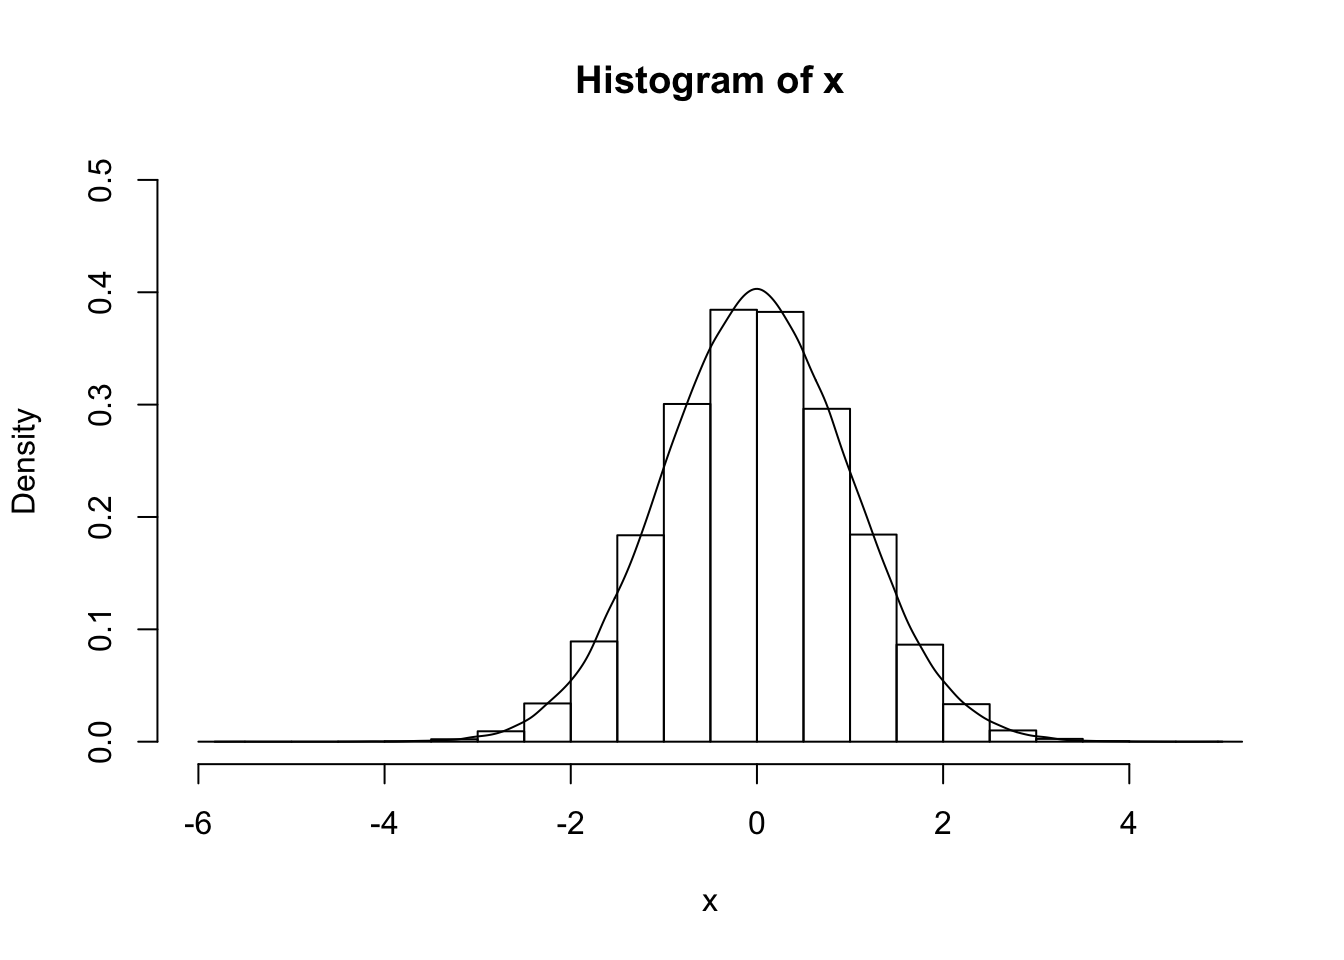
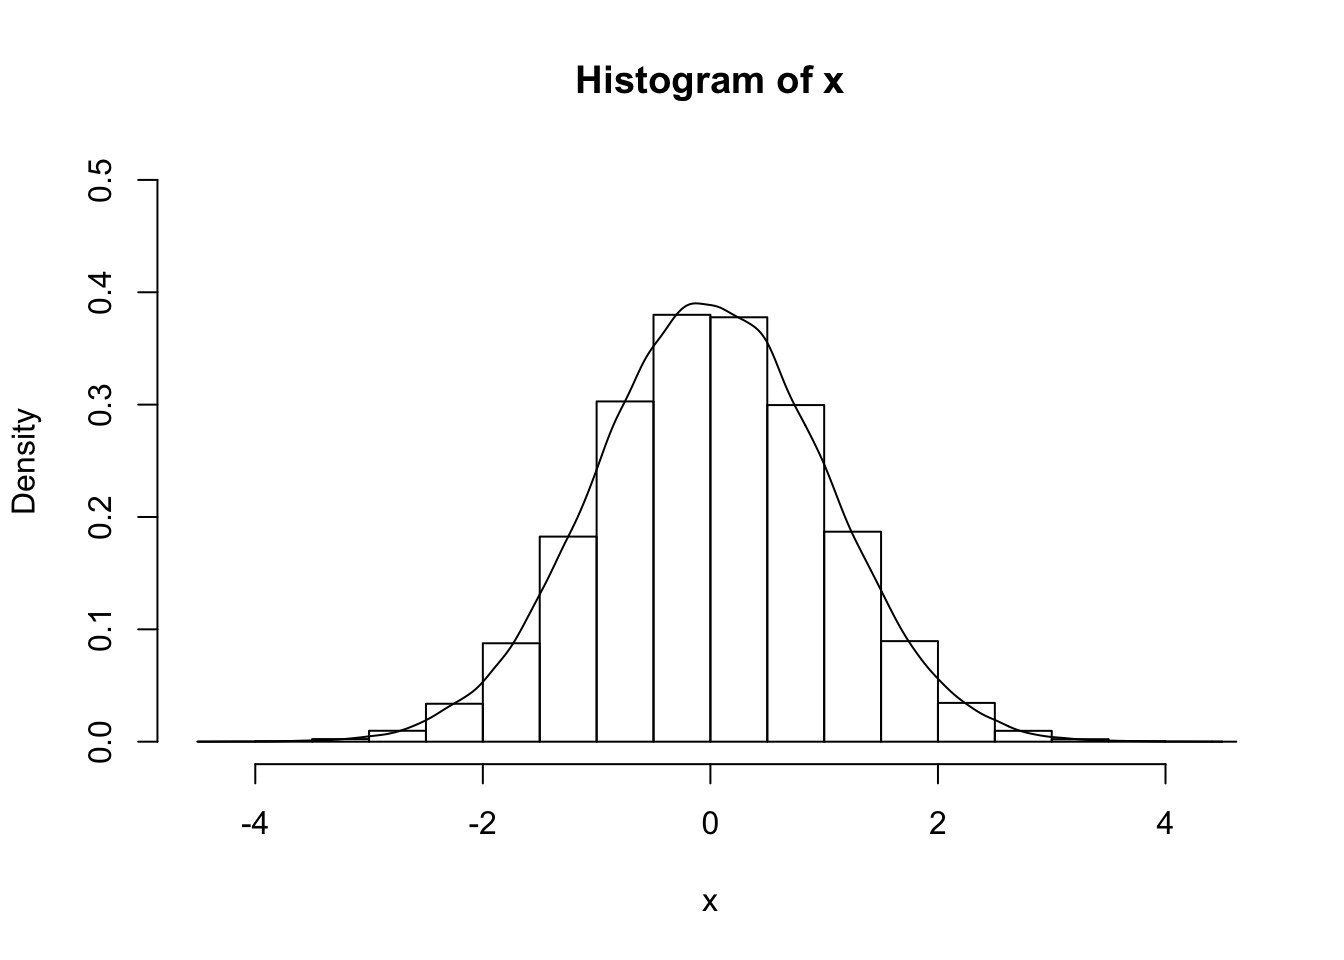
if lubridate not installed

diff --git a/Tutorial2.html b/Tutorial2.html
@@ -310,7 +310,7 @@ dev.off()</code></pre>
 <p>(attach the corresponding plots to the email)</p>
 <ol style="list-style-type: decimal">
 <li><p>Use the dataset <code>airquality</code>. Draw a scattar to show the relationship between variables <code>Ozone</code> and <code>Solar.R</code>. Show the points with <code>Wind</code> values greater than 9.7 in red, otherwise in black.</p></li>
-<li><p>Make plot to monitor the convergence of the exponential function (<span class="math inline">\(e^x \ = \sum_{n=0}^{\infty} \frac{x^{n}}{n!}\)</span>) with <span class="math inline">\(x = 5\)</span>.</p></li>
+<li><p>(!!! Only for practice, feel free to skip) Make plot to monitor the convergence of the exponential function (<span class="math inline">\(e^x \ = \sum_{n=0}^{\infty} \frac{x^{n}}{n!}\)</span>) with <span class="math inline">\(x = 5\)</span>.</p></li>
 </ol>
 <pre class="r"><code>taylor_appox&lt;- function(x){
   function(N){
@@ -324,7 +324,7 @@ taylor_appox_N&lt;- taylor_appox(x)
 N_vec&lt;- 1:20
 approx_val&lt;- sapply(N_vec, function(N){
   # TODO
-}} 
+})
 plot(N_vec, approx_val)</code></pre>
 <ol start="3" style="list-style-type: decimal">
 <li><p>Use the dataset <code>sleep</code>. Put a histogram and a boxplot in one plot to show the overall pattern of the increased sleeping time (variable <code>extra</code>).</p></li>
@@ -413,8 +413,8 @@ qnorm(.975, 0, 1)
 pnorm(1.96, 0, 1)
 #&gt; [1] 0.9750021
 rnorm(10, 0, 1)
-#&gt;  [1] -0.9888351  1.0993403 -0.9435157 -0.0418683  1.2213742  1.1520355
-#&gt;  [7]  0.6284593  1.3407019 -0.4324896 -0.1499118
+#&gt;  [1] -0.74726606  0.44174678  0.03879510 -0.13603898  0.18763028
+#&gt;  [6] -0.40700519  0.47652632 -0.08873749  0.05847273  1.09837784
 
 x&lt;- rnorm(100000, 0, 1)
 hist(x, freq = F, ylim = c(0, .5))
@@ -429,8 +429,8 @@ qbeta(.975, 1, 2)
 pbeta(0.5, 1, 2)
 #&gt; [1] 0.75
 rbeta(10, 1, 2)
-#&gt;  [1] 0.27209501 0.27854663 0.42165610 0.29665930 0.05085085 0.32356870
-#&gt;  [7] 0.02863345 0.27138269 0.51583857 0.01433001</code></pre>
+#&gt;  [1] 0.21733001 0.41667478 0.35589416 0.26383600 0.73092016 0.67331419
+#&gt;  [7] 0.51668758 0.07526624 0.19935107 0.58956986</code></pre>
 <p>E.g. Gamma distribution</p>
 <pre class="r"><code>dgamma(10, 5)
 #&gt; [1] 0.01891664
@@ -439,8 +439,8 @@ qgamma(.5, 5)
 pgamma(10, 5)
 #&gt; [1] 0.9707473
 rgamma(10, 5)
-#&gt;  [1] 2.720964 4.752093 3.912792 6.345580 6.401898 3.213724 4.442816
-#&gt;  [8] 3.525636 5.935490 3.768083</code></pre>
+#&gt;  [1]  5.758269  7.073318  5.549813  5.887339  8.196732  9.876086 11.091408
+#&gt;  [8]  4.615287 10.384104  8.202981</code></pre>
 <p>Other commonly used distributions</p>
 <ul>
 <li>Uniform (<code>dunif</code>, <code>qunif</code>, <code>punif</code>, <code>runif</code>)</li>
@@ -580,20 +580,27 @@ test_dat&lt;- iris[test_ind,]
 
 nn_model&lt;- nnet(Species ~., linout = T, size = 5, data = train_dat)
 #&gt; # weights:  43
-#&gt; initial  value 194.187745 
-#&gt; iter  10 value 40.982640
-#&gt; iter  20 value 0.639152
-#&gt; iter  30 value 0.004784
-#&gt; final  value 0.000071 
-#&gt; converged
+#&gt; initial  value 137.447227 
+#&gt; iter  10 value 25.677214
+#&gt; iter  20 value 7.084056
+#&gt; iter  30 value 5.330994
+#&gt; iter  40 value 5.229710
+#&gt; iter  50 value 5.165055
+#&gt; iter  60 value 5.144206
+#&gt; iter  70 value 4.662962
+#&gt; iter  80 value 4.077676
+#&gt; iter  90 value 3.657395
+#&gt; iter 100 value 3.320261
+#&gt; final  value 3.320261 
+#&gt; stopped after 100 iterations
 
 pred_nn&lt;- predict(nn_model, test_dat, type = &#39;class&#39;)
 
 ## Accuracy
 table(test_dat$Species == pred_nn) / nrow(test_dat)
 #&gt; 
-#&gt; FALSE  TRUE 
-#&gt;   0.1   0.9</code></pre>
+#&gt;      FALSE       TRUE 
+#&gt; 0.06666667 0.93333333</code></pre>
 <p>Example: Decision Tree</p>
 <pre class="r"><code>library(rpart)
 
@@ -604,8 +611,8 @@ pred_cart&lt;- predict(cart_model, test_dat, type = &#39;class&#39;)
 ## Accuracy
 table(test_dat$Species == pred_cart) / nrow(test_dat)
 #&gt; 
-#&gt; FALSE  TRUE 
-#&gt;   0.3   0.7</code></pre>
+#&gt;     FALSE      TRUE 
+#&gt; 0.2666667 0.7333333</code></pre>
 <p>Use <code>install.packages()</code> to install package.</p>
 <p>Example: Use t-SNE for dimensionality reduction, visualizing breast cancer data.</p>
 <pre class="r"><code>library(tsne)
@@ -615,16 +622,16 @@ exp_dat&lt;- read.table(url, sep = &quot;,&quot;, header = F)
 
 tsne_res&lt;- tsne(exp_dat[, 3:32], perplexity = 100)
 #&gt; sigma summary: Min. : 0.38658523478823 |1st Qu. : 0.61806546548001 |Median : 0.648107496657062 |Mean : 0.651623332613159 |3rd Qu. : 0.67963590493686 |Max. : 1.05004711205922 |
-#&gt; Epoch: Iteration #100 error is: 15.0921177898514
-#&gt; Epoch: Iteration #200 error is: 1.00997665740623
-#&gt; Epoch: Iteration #300 error is: 0.993873434545722
-#&gt; Epoch: Iteration #400 error is: 0.989234908857796
-#&gt; Epoch: Iteration #500 error is: 0.989209634297789
-#&gt; Epoch: Iteration #600 error is: 0.989209634296209
-#&gt; Epoch: Iteration #700 error is: 0.989209634296209
-#&gt; Epoch: Iteration #800 error is: 0.989209634296209
-#&gt; Epoch: Iteration #900 error is: 0.989209634296209
-#&gt; Epoch: Iteration #1000 error is: 0.989209634296209
+#&gt; Epoch: Iteration #100 error is: 15.2146791672286
+#&gt; Epoch: Iteration #200 error is: 1.01984933420589
+#&gt; Epoch: Iteration #300 error is: 1.01378534649314
+#&gt; Epoch: Iteration #400 error is: 1.01378064524078
+#&gt; Epoch: Iteration #500 error is: 1.01250117800596
+#&gt; Epoch: Iteration #600 error is: 1.01143585765231
+#&gt; Epoch: Iteration #700 error is: 1.01143517658865
+#&gt; Epoch: Iteration #800 error is: 1.01143517658486
+#&gt; Epoch: Iteration #900 error is: 1.01143517658486
+#&gt; Epoch: Iteration #1000 error is: 1.01143517658486
 
 plot(tsne_res[which(exp_dat$V2 == &quot;B&quot;), ], col = 1, pch = 20, xlim = c(-6, 6), ylim = c(-6, 6), xlab = &quot;&quot;, ylab = &quot;&quot;)
 points(tsne_res[which(exp_dat$V2 == &quot;M&quot;), ], col = 2, pch = 20)</code></pre>
